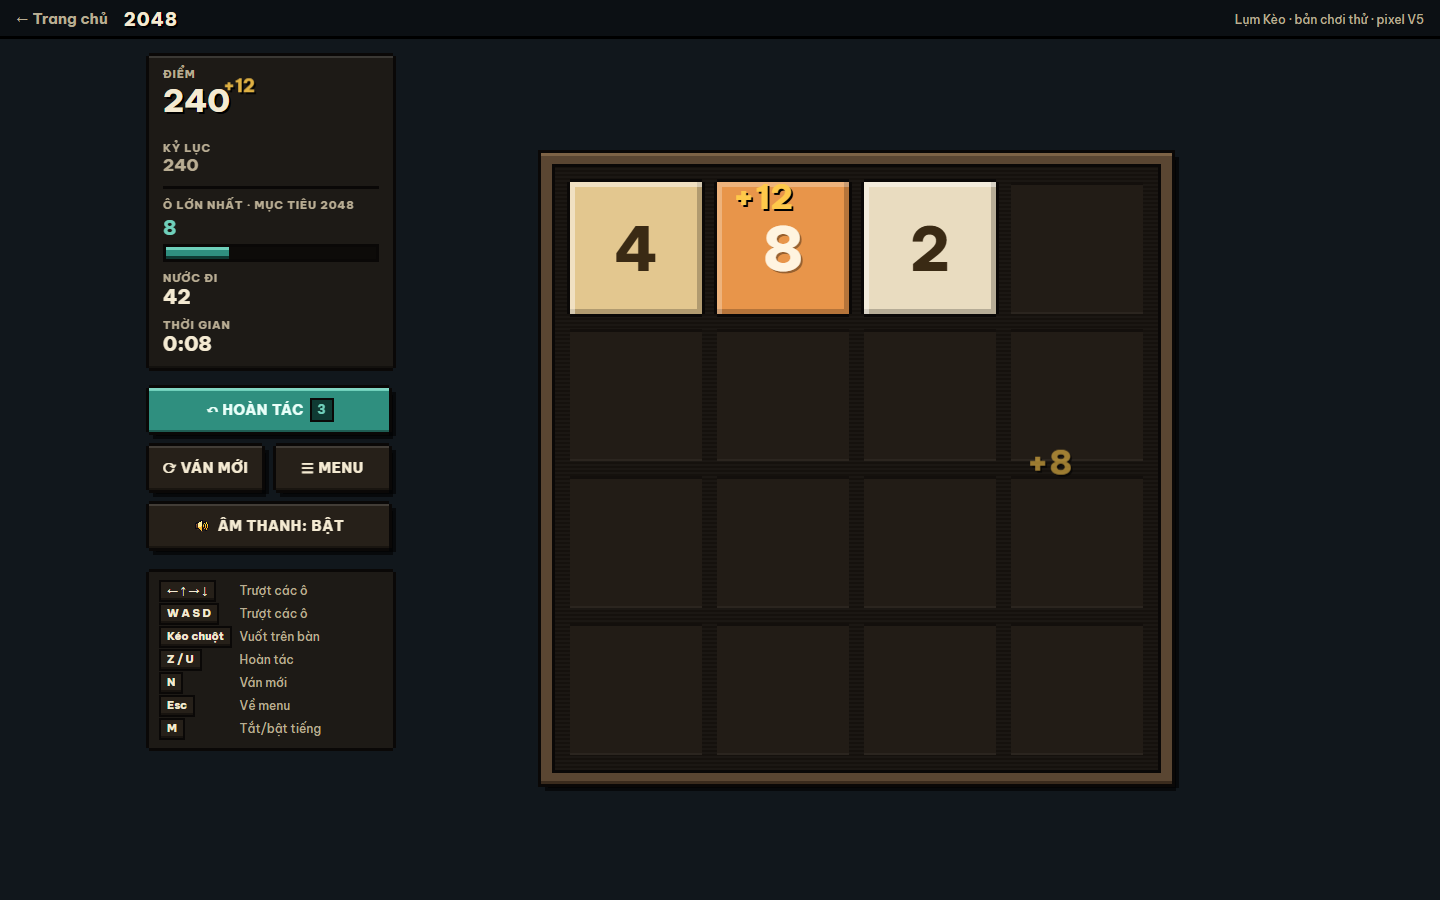
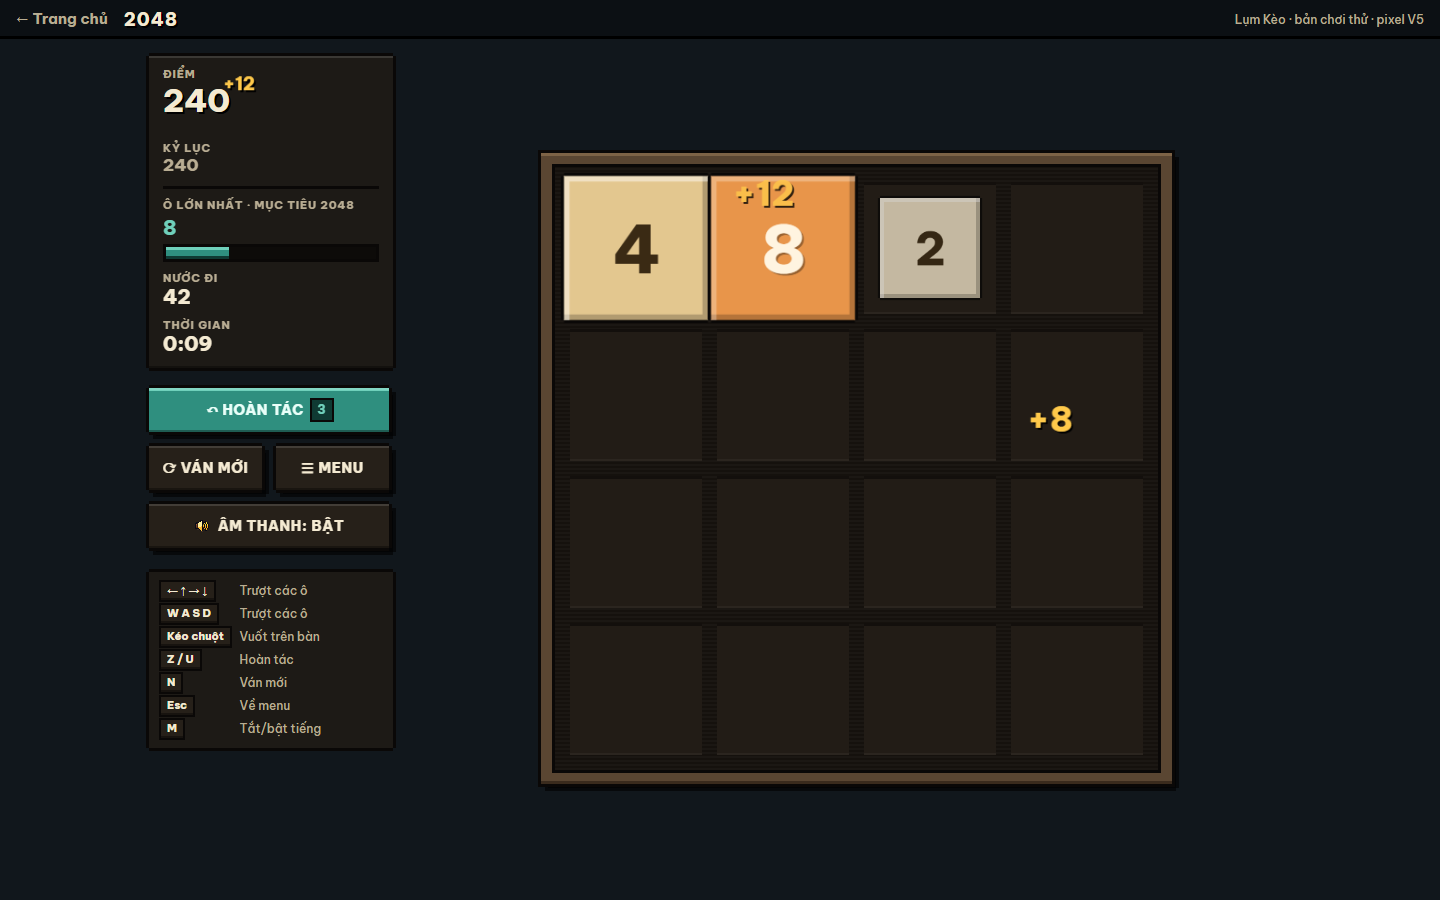
2048: chữ "+điểm" và hiệu ứng gộp chạy mượt, không giật
- Chữ bay lên khi gộp trước dùng steps(7) (chỉ 7 bậc nhảy) + left/top → nay chỉ animate transform/opacity, easing mượt, will-change
- Tối đa 3 chữ bay cùng lúc trên bàn, ô điểm chỉ 1 chữ (gộp liên tiếp thì chạy lại thay vì chồng), gỡ khi animationend
- Ô nảy khi gộp, ô mới hiện, bụi pixel cũng bỏ nhảy bậc cho liền mạch
- E2E thêm đo độ mượt từng khung hình + gộp dồn dập: 59/59

Changed region(s): [[0.375, 0.1867, 0.7188, 0.3733], [0.7188, 0.4356, 0.75, 0.5289], [0.1562, 0.0622, 0.1875, 0.1244]]

diff --git a/prototype/games/2048/index.html b/prototype/games/2048/index.html
@@ -40,8 +40,10 @@
     .stat.main b { font-size: 32px; text-shadow: 2px 2px 0 #000; }
     .stat.best b { font-size: 17px; color: var(--soft); }
     .stat .top { color: var(--teal-l); }
-    .gain { position: absolute; left: 0; top: 10px; font: 800 18px "Be Vietnam Pro"; color: var(--gold); text-shadow: 2px 2px 0 #000; pointer-events: none; animation: rise .7s steps(7) forwards; }
-    @keyframes rise { from { transform: translate(60px, 0); opacity: 1; } to { transform: translate(60px, -26px); opacity: 0; } }
+    /* Chữ "+điểm": chỉ animate transform + opacity (không gây reflow), có lớp riêng (will-change), chạy mượt — không nhảy bậc */
+    .gain { position: absolute; left: 60px; top: 10px; font: 800 18px "Be Vietnam Pro"; color: var(--gold); text-shadow: 2px 2px 0 #000; pointer-events: none;
+      will-change: transform, opacity; animation: rise .65s cubic-bezier(.2, .7, .3, 1) forwards; }
+    @keyframes rise { 0% { transform: translate3d(0, 4px, 0); opacity: 0; } 15% { transform: translate3d(0, 0, 0); opacity: 1; } 70% { opacity: 1; } 100% { transform: translate3d(0, -26px, 0); opacity: 0; } }
     .goal { display: grid; gap: 4px; }
     .px-bar { height: 12px; background: #0d0b09; box-shadow: 0 0 0 3px var(--line); position: relative; overflow: hidden; margin: 3px; }
     .px-bar i { position: absolute; inset: 0 auto 0 0; background: var(--teal); box-shadow: inset 0 3px 0 var(--teal-l), inset 0 -3px 0 var(--teal-d); transition: width .2s steps(4); }
@@ -95,14 +97,17 @@
     .tile[data-t="3"] .face::before, .tile[data-t="3"] .face::after, .tile[data-t="4"] .face::before, .tile[data-t="4"] .face::after { opacity: 1; }
     .tile[data-t="4"] .face { animation: glint 1.6s steps(1) infinite; }
     @keyframes glint { 0%, 70% { filter: none; } 80% { filter: brightness(1.18); } 90% { filter: brightness(1.06); } }
-    .tile.spawn .face { animation: spawn 150ms steps(3) both; }
-    .tile.pop .face { animation: pop 180ms steps(3) both; }
-    @keyframes spawn { from { transform: scale(.2); } to { transform: scale(1); } }
+    .tile.spawn .face { animation: spawn 160ms cubic-bezier(.2, .8, .3, 1.2) both; }
+    .tile.pop .face { animation: pop 170ms ease-out both; }
+    @keyframes spawn { from { transform: scale(.2); opacity: .4; } to { transform: scale(1); opacity: 1; } }
     @keyframes pop { 0% { transform: scale(1); } 50% { transform: scale(1.16); } 100% { transform: scale(1); } }
-    .part { position: absolute; width: var(--px); height: var(--px); z-index: 3; pointer-events: none; animation: burst 420ms steps(6) forwards; }
-    @keyframes burst { to { transform: translate(var(--dx), var(--dy)); opacity: 0; } }
-    .float { position: absolute; z-index: 4; pointer-events: none; font: 800 calc(var(--cs) * .26) "Be Vietnam Pro"; color: var(--gold); text-shadow: 2px 2px 0 #000; animation: fup .7s steps(7) forwards; white-space: nowrap; }
-    @keyframes fup { to { transform: translateY(calc(var(--cs) * -.5)); opacity: 0; } }
+    .part { position: absolute; width: var(--px); height: var(--px); z-index: 3; pointer-events: none; will-change: transform, opacity; animation: burst 420ms cubic-bezier(.15, .7, .35, 1) forwards; }
+    @keyframes burst { to { transform: translate3d(var(--dx), var(--dy), 0); opacity: 0; } }
+    .float { position: absolute; left: 0; top: 0; z-index: 4; pointer-events: none; font: 800 calc(var(--cs) * .26) / 1 "Be Vietnam Pro"; color: var(--gold); text-shadow: 2px 2px 0 #000; white-space: nowrap;
+      will-change: transform, opacity; contain: layout style; animation: fup .7s cubic-bezier(.2, .7, .3, 1) forwards; }
+    @keyframes fup { 0% { transform: translate3d(var(--fx), calc(var(--fy) + var(--cs) * .06), 0) scale(.85); opacity: 0; }
+      14% { transform: translate3d(var(--fx), var(--fy), 0) scale(1.06); opacity: 1; } 28% { transform: translate3d(var(--fx), calc(var(--fy) - var(--cs) * .1), 0) scale(1); }
+      72% { opacity: 1; } 100% { transform: translate3d(var(--fx), calc(var(--fy) - var(--cs) * .55), 0) scale(1); opacity: 0; } }
     .board.shake { animation: shake 180ms steps(4); }
     @keyframes shake { 25% { transform: translate(-3px, 0); } 50% { transform: translate(3px, 0); } 75% { transform: translate(-2px, 0); } }
     .board.dead .tile .face { filter: grayscale(.85) brightness(.6); transition: filter .6s steps(4); }

diff --git a/prototype/games/2048/game.js b/prototype/games/2048/game.js
@@ -163,19 +163,34 @@ export function mount(root, ctx = {}) {
       setTimeout(() => p.remove(), 460);
     }
   }
+  // Chữ bay: vị trí đặt qua biến CSS trong transform (không dùng left/top → không reflow),
+  // tối đa 3 chữ cùng lúc trên bàn, gỡ khi animation kết thúc (có hẹn giờ dự phòng).
+  const floats = [];
+  function dropFloat(f) { const k = floats.indexOf(f); if (k >= 0) floats.splice(k, 1); f.remove(); }
   function floatText(at, text) {
+    while (floats.length >= 3) dropFloat(floats[0]);
     const f = document.createElement("div"); f.className = "float"; f.textContent = text;
-    f.style.left = (at % G.n) * G.st + G.gp + G.cs * 0.12 + "px";
-    f.style.top = Math.floor(at / G.n) * G.st + G.gp - G.cs * 0.05 + "px";
+    f.style.setProperty("--fx", Math.round((at % G.n) * G.st + G.gp + G.cs * 0.12) + "px");
+    f.style.setProperty("--fy", Math.round(Math.floor(at / G.n) * G.st + G.gp - G.cs * 0.05) + "px");
+    f.addEventListener("animationend", () => dropFloat(f), { once: true });
+    setTimeout(() => dropFloat(f), 1200);
+    floats.push(f);
     board.appendChild(f);
-    setTimeout(() => f.remove(), 720);
   }
+  let gainEl = null;
   function scoreGain(n) {
+    // một chữ duy nhất: gộp liên tiếp thì cộng dồn và chạy lại animation thay vì chồng nhiều chữ
     const box = $("scoreBox");
-    box.querySelectorAll(".gain").forEach((e) => e.remove());
-    const g = document.createElement("span"); g.className = "gain"; g.textContent = "+" + fmt(n);
+    if (gainEl && gainEl.isConnected) {
+      gainEl.dataset.n = n;
+      gainEl.textContent = "+" + fmt(+gainEl.dataset.n);
+      gainEl.style.animation = "none"; void gainEl.offsetWidth; gainEl.style.animation = "";
+      return;
+    }
+    const g = document.createElement("span"); g.className = "gain"; g.dataset.n = n; g.textContent = "+" + fmt(n);
+    g.addEventListener("animationend", () => { g.remove(); if (gainEl === g) gainEl = null; });
+    gainEl = g;
     box.appendChild(g);
-    setTimeout(() => g.remove(), 720);
   }
 
   // ---------- Một nước đi ----------

diff --git a/prototype/games/2048/README.md b/prototype/games/2048/README.md
@@ -61,7 +61,7 @@ Cách mở: ở gốc repo chạy `PORT=8768 node server.js`, rồi vào `http:/
 ## Test
 - Unit test luật chơi: `node --test test/logic.test.mjs`. Hiện 13/13 đạt.
   - Có cả fuzz 2000 nước × 3 cỡ bàn × 4 seed để kiểm tra tổng giá trị trên bàn luôn khớp.
-- E2E: mở server ở cổng 8768, rồi chạy `node screenshots/e2e.mjs <thư-mục-ra>`. Hiện 57/57 đạt.
+- E2E: mở server ở cổng 8768, rồi chạy `node screenshots/e2e.mjs <thư-mục-ra>`. Hiện 59/59 đạt.
   - Script chạy Chrome headless qua CDP, cổng 9344.
-  - Có kiểm tra: bàn phím, vuốt, hoạt ảnh gộp, thắng / chơi tiếp, thua / hoàn tác, lưu rồi tải lại trang, tắt tiếng, không tràn màn hình ở 7 kích thước, không có lỗi console.
+  - Có kiểm tra: bàn phím, vuốt, hoạt ảnh gộp, thắng / chơi tiếp, thua / hoàn tác, lưu rồi tải lại trang, tắt tiếng, không tràn màn hình ở 7 kích thước, không có lỗi console, chữ "+điểm" bay mượt (lấy mẫu từng khung hình) và không chồng chữ khi gộp liên tiếp.
   - Kết quả lưu ở `screenshots/e2e-ket-qua.txt`.
